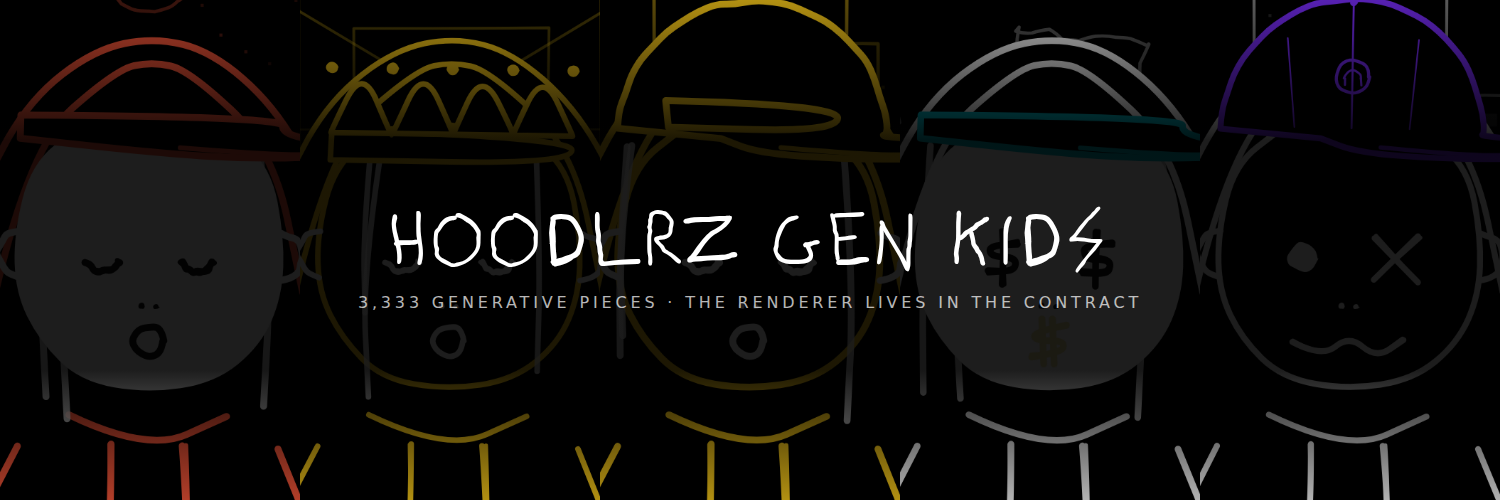
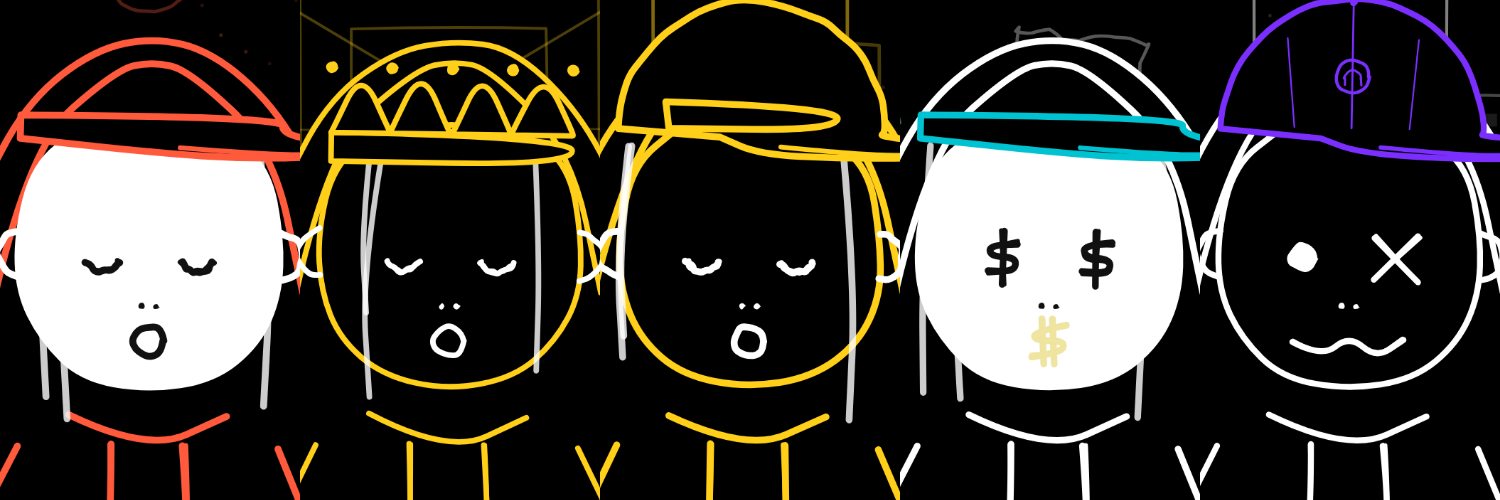
kids: visuels de marque sans texte grave
OpenSea superpose deja le nom de la collection sur la banniere : un
titre grave dans l'image s'y retrouve double, et coupe differemment
selon la largeur de l'ecran. Le ticker de la chaine avait le meme
defaut, avec en plus le risque de devoir refaire les fichiers si quoi
que ce soit change.

Sans texte, le voile et la bande sombre n'ont plus de raison d'etre :
l'art passe a pleine intensite. Cinq visages en couleurs vives lisent
mieux la variete de la collection que les memes assombris sous un titre.

Les fichiers restent utilisables tels quels si le nom ou la langue
changent - ce qui vient d'arriver deux fois en une semaine.

diff --git a/kids/brand/collection-copy.md b/kids/brand/collection-copy.md
@@ -135,6 +135,12 @@ fixed hashes. They are reproducible, and they reveal nothing about the
 collection — those hashes are not derived from the seed, which will not
 exist until `revealSeed()`.
 
+**No text is burned into any of them.** OpenSea already overlays the
+collection name on the banner, and a title baked into the image ends up
+doubled or cropped depending on screen width. Without text the art runs
+at full strength — no veil, no dark band — and the same files stay usable
+if the name or the language ever changes.
+
 | File | Size | Use |
 |---|---|---|
 | `icon.png` | 1000×1000 | OpenSea profile picture — shown as a circle |
